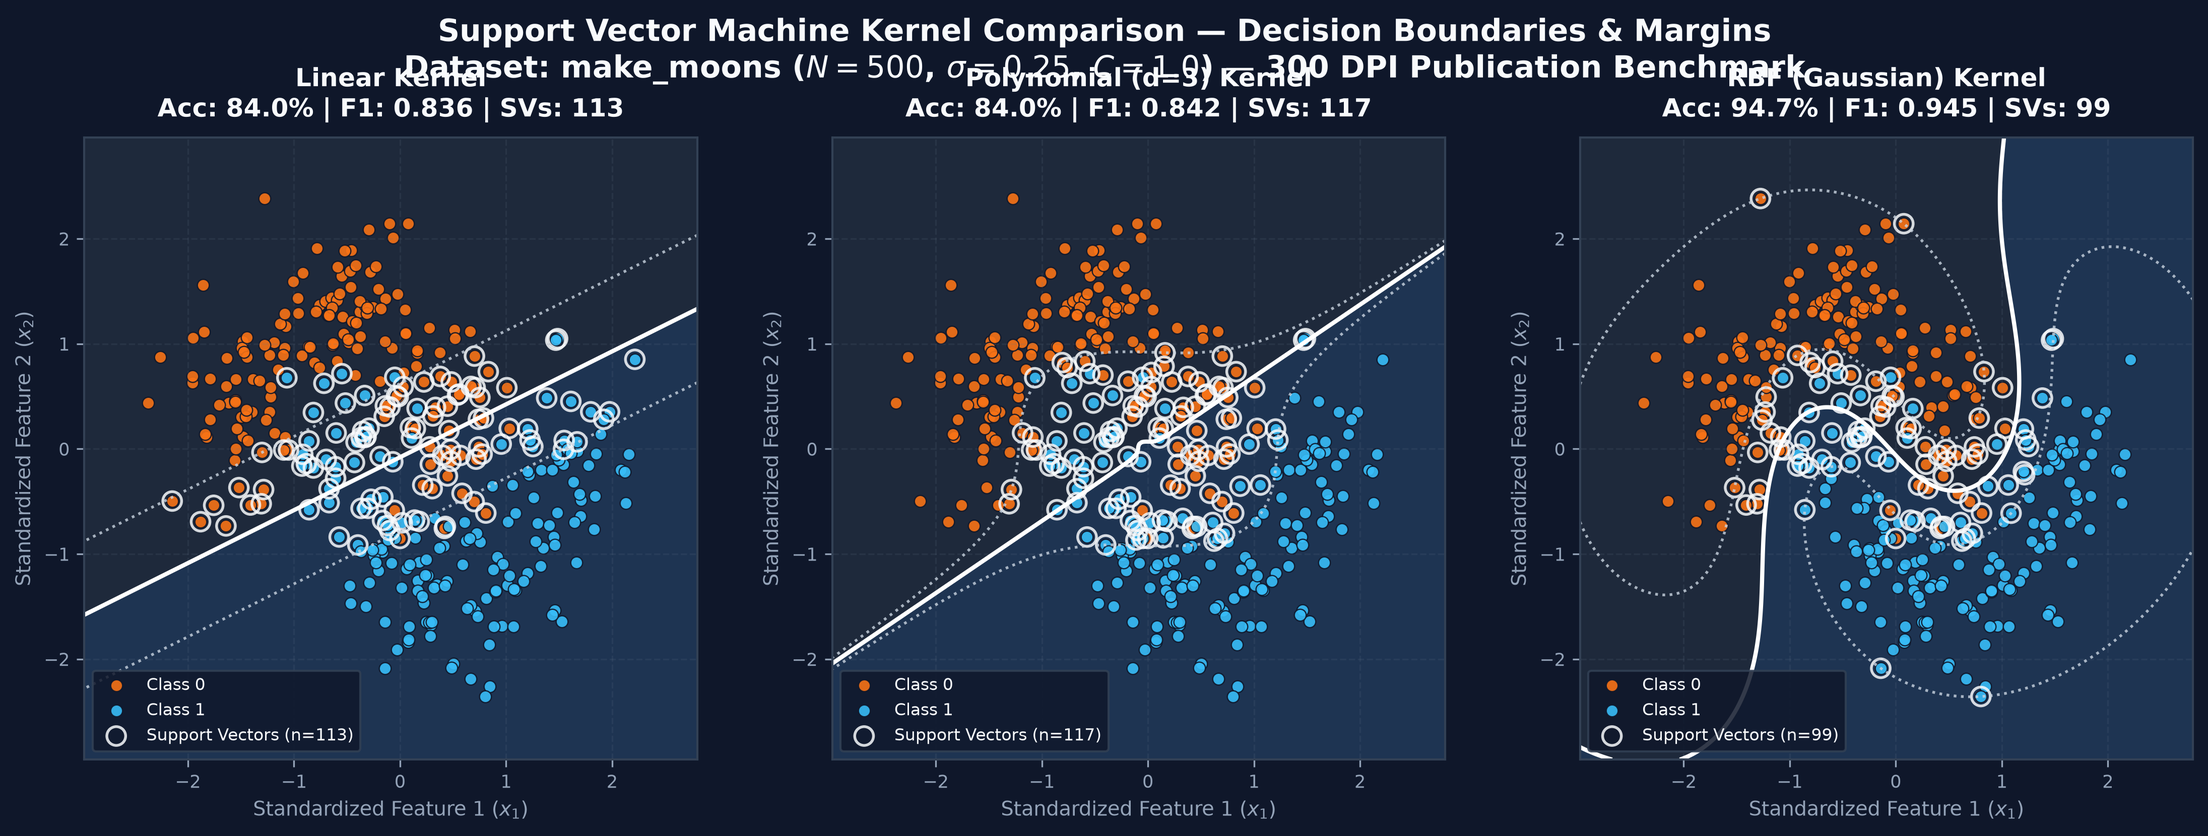
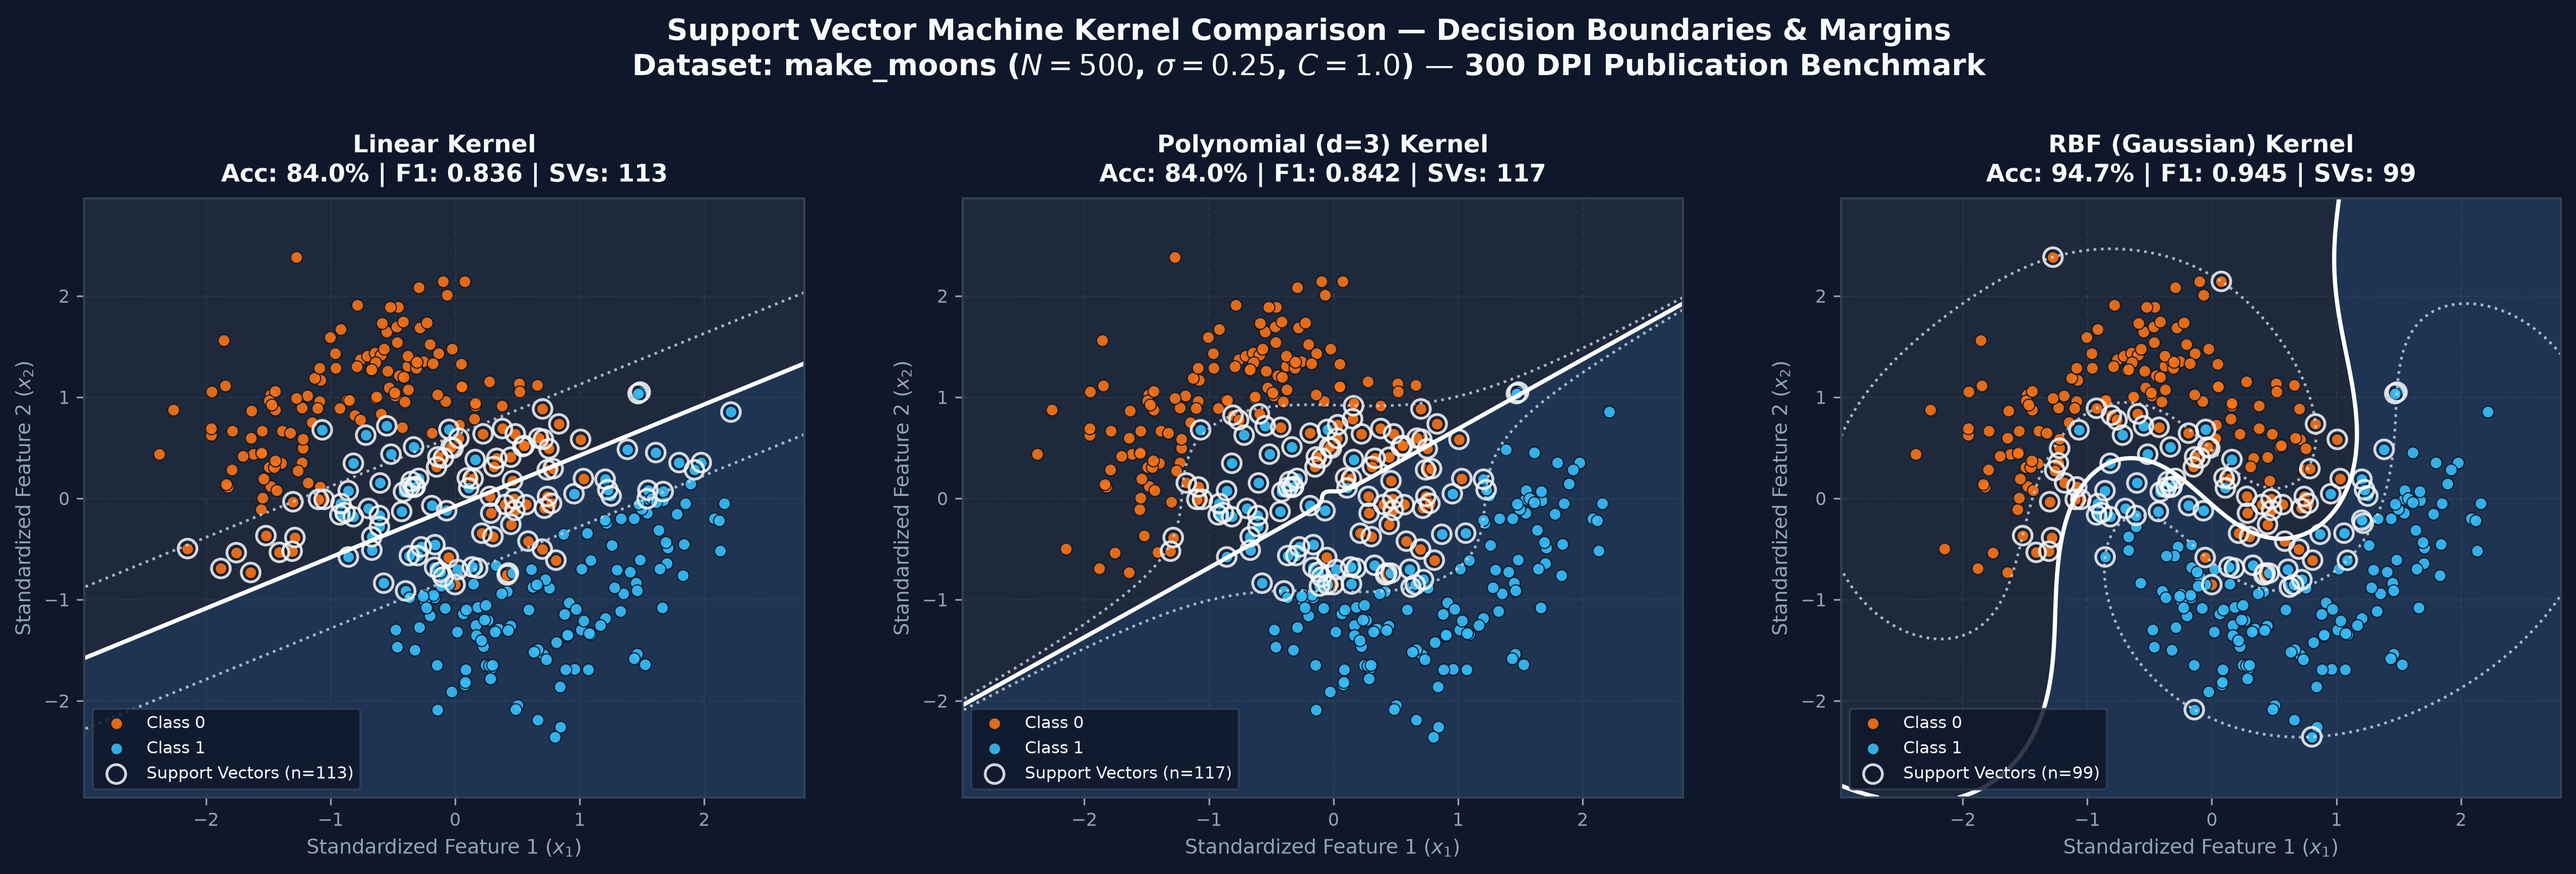
fix(plots): resolve title overlap and improve layout margins on SVM boundary plots

diff --git a/01_svm_kernel_comparison.py b/01_svm_kernel_comparison.py
@@ -133,8 +133,8 @@ text_light = '#F8FAFC'
 text_muted = '#94A3B8'
 border_col = '#334155'
 
-fig, axes = plt.subplots(1, 3, figsize=(18, 5.8), facecolor=bg_dark)
-fig.subplots_adjust(top=0.82, wspace=0.22)
+fig, axes = plt.subplots(1, 3, figsize=(18, 6.4), facecolor=bg_dark)
+fig.subplots_adjust(top=0.74, bottom=0.12, left=0.05, right=0.96, wspace=0.22)
 
 h = 0.02
 x_min, x_max = X_train_scaled[:, 0].min() - 0.6, X_train_scaled[:, 0].max() + 0.6
@@ -149,7 +149,7 @@ color_class1 = '#38BDF8' # Sky blue
 
 fig.suptitle('Support Vector Machine Kernel Comparison — Decision Boundaries & Margins\n'
              r'Dataset: $\bf{make\_moons}$ ($N=500$, $\sigma=0.25$, $C=1.0$) — 300 DPI Publication Benchmark',
-             fontsize=14.5, fontweight='bold', color=text_light, y=0.96)
+             fontsize=14, fontweight='bold', color=text_light, y=0.93)
 
 for ax, (name, r) in zip(axes, results.items()):
     ax.set_facecolor(panel_bg)
@@ -182,7 +182,7 @@ for ax, (name, r) in zip(axes, results.items()):
 
     # Subplot Title & Annotations
     ax.set_title(f"{name} Kernel\nAcc: {r['accuracy']*100:.1f}% | F1: {r['f1']:.3f} | SVs: {r['n_support_vectors']}",
-                 fontsize=12, fontweight='bold', color=text_light, pad=10)
+                 fontsize=11.5, fontweight='bold', color=text_light, pad=8)
     ax.set_xlabel('Standardized Feature 1 ($x_1$)', fontsize=9.5, color=text_muted)
     ax.set_ylabel('Standardized Feature 2 ($x_2$)', fontsize=9.5, color=text_muted)
     ax.tick_params(colors=text_muted, labelsize=8.5)

diff --git a/local_server.py b/local_server.py
@@ -107,10 +107,10 @@ def run_svm(params):
     text_muted = '#94A3B8'
     border_col = '#334155'
 
-    fig, axes = plt.subplots(1, 3, figsize=(16, 5.0), facecolor=bg_dark)
-    fig.subplots_adjust(top=0.80, wspace=0.20)
+    fig, axes = plt.subplots(1, 3, figsize=(16, 5.6), facecolor=bg_dark)
+    fig.subplots_adjust(top=0.75, bottom=0.12, left=0.05, right=0.96, wspace=0.22)
     fig.suptitle(f'Live SVM Decision Boundaries & Margins (N={n_samples}, σ={noise:.2f}, C={c_val}, γ={gamma})',
-                 fontsize=13.5, fontweight='bold', color=text_light, y=0.96)
+                 fontsize=13.5, fontweight='bold', color=text_light, y=0.93)
 
     h = 0.03
     x_min, x_max = X_train_scaled[:, 0].min() - 0.6, X_train_scaled[:, 0].max() + 0.6

diff --git a/api/index.py b/api/index.py
@@ -97,10 +97,10 @@ def run_svm(params):
     text_muted = '#94A3B8'
     border_col = '#334155'
 
-    fig, axes = plt.subplots(1, 3, figsize=(15, 4.8), facecolor=bg_dark)
-    fig.subplots_adjust(top=0.80, wspace=0.20)
+    fig, axes = plt.subplots(1, 3, figsize=(16, 5.6), facecolor=bg_dark)
+    fig.subplots_adjust(top=0.75, bottom=0.12, left=0.05, right=0.96, wspace=0.22)
     fig.suptitle(f'Live SVM Decision Boundaries & Margins (N={n_samples}, σ={noise:.2f}, C={c_val}, γ={gamma})',
-                 fontsize=13, fontweight='bold', color=text_light, y=0.96)
+                 fontsize=13.5, fontweight='bold', color=text_light, y=0.93)
 
     h = 0.035
     x_min, x_max = X_train_scaled[:, 0].min() - 0.6, X_train_scaled[:, 0].max() + 0.6

diff --git a/api/run_svm.py b/api/run_svm.py
@@ -86,10 +86,10 @@ def run_svm(params):
     text_muted = '#94A3B8'
     border_col = '#334155'
 
-    fig, axes = plt.subplots(1, 3, figsize=(15, 4.8), facecolor=bg_dark)
-    fig.subplots_adjust(top=0.80, wspace=0.20)
+    fig, axes = plt.subplots(1, 3, figsize=(16, 5.6), facecolor=bg_dark)
+    fig.subplots_adjust(top=0.75, bottom=0.12, left=0.05, right=0.96, wspace=0.22)
     fig.suptitle(f'Live SVM Decision Boundaries & Margins (N={n_samples}, σ={noise:.2f}, C={c_val}, γ={gamma})',
-                 fontsize=13, fontweight='bold', color=text_light, y=0.96)
+                 fontsize=13.5, fontweight='bold', color=text_light, y=0.93)
 
     h = 0.035
     x_min, x_max = X_train_scaled[:, 0].min() - 0.6, X_train_scaled[:, 0].max() + 0.6
